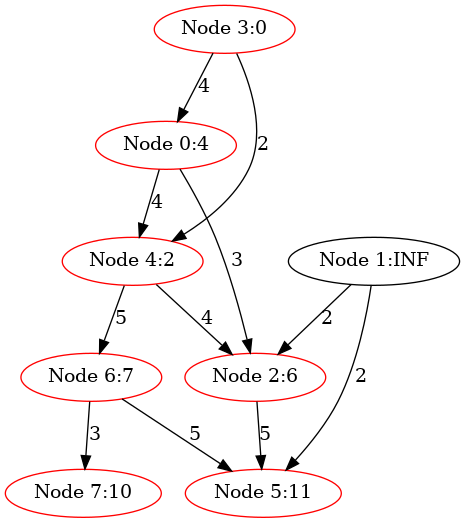
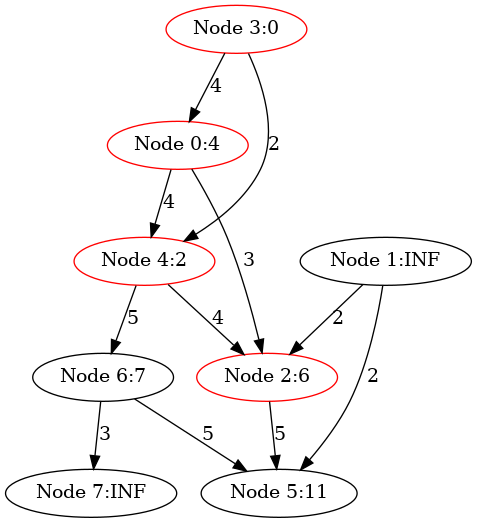
Upate Graphs/Dijkstra

diff --git a/Graphs/Dijkstra/src/Graph.c b/Graphs/Dijkstra/src/Graph.c
@@ -381,15 +381,25 @@ void Dijkstra(struct Graph *pGraph, long startNodeId) {
         } else {
             GenOneImage(pGraph, "DijkstraUndirected", "images/DijkstraUndirected", imgCnt, visited);
         }
-
+        int changed = 0;
         for (long v = 0; v < pGraph->n; v++) {
             if (!visited[v] && MatrixElement(pGraph, u, v) != 0 && distances[u] != INFINITY_VALUE) {
                 if (distances[u] + MatrixElement(pGraph, u, v) < distances[v]) {
                     printf("Updating distances[%ld]: %ld --> ... --> %ld --> %ld; distance from %ld to %ld is %ld\n\n", v, 
                             startNodeId, u, v, u, v,(long) MatrixElement(pGraph, u, v));
                     distances[v] = distances[u] + MatrixElement(pGraph, u, v);
+                    changed = 1;
                 }
             }
+        }
+        if (changed) {
+            imgCnt++;
+
+            if (pGraph->isDirected) {
+                GenOneImage(pGraph, "DijkstraDirected", "images/DijkstraDirected", imgCnt, visited);
+            } else {
+                GenOneImage(pGraph, "DijkstraUndirected", "images/DijkstraUndirected", imgCnt, visited);
+            }            
         }
         PrintDistancesAndVisited(pGraph, distances, visited, NULL);
     }

diff --git a/Graphs/Dijkstra/README.md b/Graphs/Dijkstra/README.md
@@ -142,24 +142,42 @@ Here, **feh** is an image viewer available in [CSE VLAB](https://vlabgateway.cse
 | <img src="images/DijkstraDirected_0000.png" width="50%" height="50%"> |  
 
 
-| Step 1 | Step 2  |
+| Step 1 |  |
 |:-------------:|:-------------:|
 | <img src="images/DijkstraDirected_0001.png" width="50%" height="50%"> |  <img src="images/DijkstraDirected_0002.png" width="50%" height="50%"> | 
 
 
-
-|Step 3 | Step 4 |
+| Step 2 |  |
 |:-------------:|:-------------:|
-|<img src="images/DijkstraDirected_0003.png" width="50%" height="50%"> | <img src="images/DijkstraDirected_0004.png" width="50%" height="50%"> | 
+| <img src="images/DijkstraDirected_0003.png" width="50%" height="50%"> |  <img src="images/DijkstraDirected_0004.png" width="50%" height="50%"> | 
 
 
-| Step 5 | Step 6|
+|Step 3 |  |
 |:-------------:|:-------------:|
-| <img src="images/DijkstraDirected_0005.png" width="50%" height="50%"> |  <img src="images/DijkstraDirected_0006.png" width="50%" height="50%"> | 
+|<img src="images/DijkstraDirected_0005.png" width="50%" height="50%"> |  | 
 
-| Step 7 | Step 8 |
+
+|Step 4 | |
 |:-------------:|:-------------:|
-| <img src="images/DijkstraDirected_0007.png" width="50%" height="50%"> | <img src="images/DijkstraDirected_0008.png" width="50%" height="50%"> | 
+|<img src="images/DijkstraDirected_0006.png" width="50%" height="50%"> | <img src="images/DijkstraDirected_0007.png" width="50%" height="50%"> | 
+
+
+| Step 5 | |
+|:-------------:|:-------------:|
+| <img src="images/DijkstraDirected_0008.png" width="50%" height="50%"> |  <img src="images/DijkstraDirected_0009.png" width="50%" height="50%"> | 
+
+| Step 6 | |
+|:-------------:|:-------------:|
+| <img src="images/DijkstraDirected_0010.png" width="50%" height="50%"> |   | 
+
+| Step 7 ||
+|:-------------:|:-------------:|
+| <img src="images/DijkstraDirected_0011.png" width="50%" height="50%"> | | 
+
+
+| Step 8 |  |
+|:-------------:|:-------------:|
+| <img src="images/DijkstraDirected_0012.png" width="50%" height="50%"> |  | 
 
 ### 3.3 More details
 
